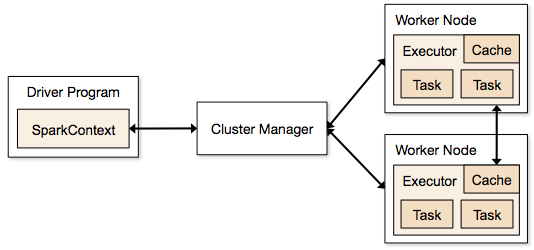
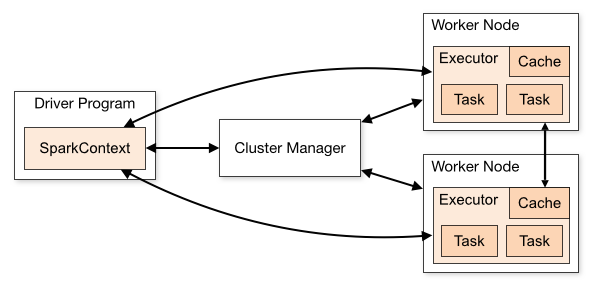
[SPARK-6343] Doc driver-worker network reqs
Attempt at making the driver-worker networking requirement more explicit and up-front in the documentation (see https://issues.apache.org/jira/browse/SPARK-6343).

Update cluster overview diagram to show connections from workers to driver. Add a bullet below about how driver listens / accepts connections from workers.

Author: Peter Parente <pparent@us.ibm.com>

Closes #5382 from parente/SPARK-6343 and squashes the following commits:

0b2fb9d [Peter Parente] [SPARK-6343] Doc driver-worker network reqs

diff --git a/docs/cluster-overview.md b/docs/cluster-overview.md
@@ -33,7 +33,11 @@ There are several useful things to note about this architecture:
 2. Spark is agnostic to the underlying cluster manager. As long as it can acquire executor
    processes, and these communicate with each other, it is relatively easy to run it even on a
    cluster manager that also supports other applications (e.g. Mesos/YARN).
-3. Because the driver schedules tasks on the cluster, it should be run close to the worker
+3. The driver program must listen for and accept incoming connections from its executors throughout 
+   its lifetime (e.g., see [spark.driver.port and spark.fileserver.port in the network config 
+   section](configuration.html#networking)). As such, the driver program must be network 
+   addressable from the worker nodes.
+4. Because the driver schedules tasks on the cluster, it should be run close to the worker
    nodes, preferably on the same local area network. If you'd like to send requests to the
    cluster remotely, it's better to open an RPC to the driver and have it submit operations
    from nearby than to run a driver far away from the worker nodes.
